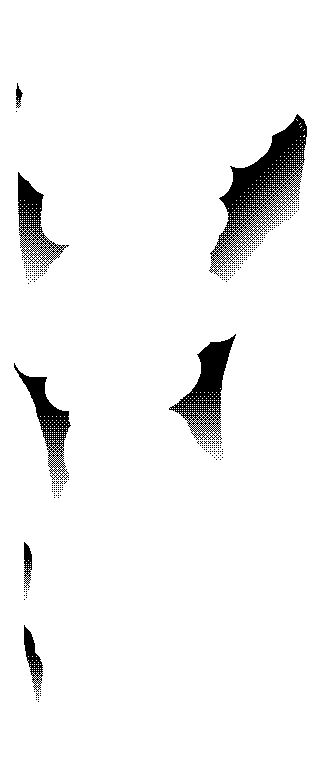
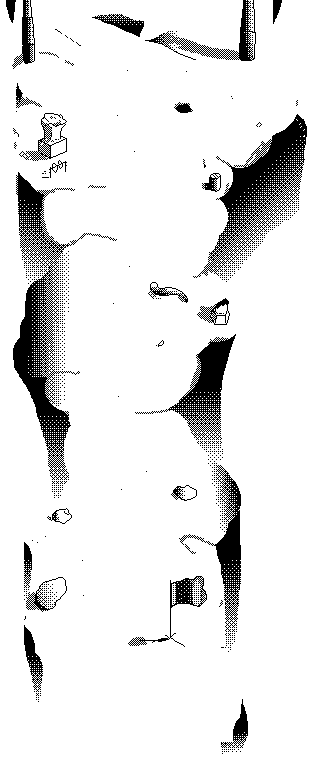
Depth effect for 3d

diff --git a/3d.c b/3d.c
@@ -589,7 +589,7 @@ Quaternion EulerToQuart(Point3 angle)
     return q;
 }
 
-Voxel VoxelCastRay(float startX, float startY, float startZ, Point3 dir)
+Voxel VoxelCastRay(float startX, float startY, float startZ, Point3 dir, int* endX, int* endY, int* endZ)
 {
     if (!RangeCheck(startX,startY,startZ))
 		return (Voxel){0};
@@ -608,8 +608,13 @@ Voxel VoxelCastRay(float startX, float startY, float startZ, Point3 dir)
         Voxel v = world[(int)(x)][(int)(y)][(int)(z)];
 
         if (!IsAir(v))
-            return v;
+        {
+            *endX = x;
+            *endY = y;
+            *endZ = z;
 
+            return v;
+        }
         float deltaX = dir.x * v.distFunc;
         float deltaY = dir.y * v.distFunc;
         float deltaZ = dir.z * v.distFunc;
@@ -646,6 +651,9 @@ Voxel VoxelCastRay(float startX, float startY, float startZ, Point3 dir)
                 x = clamp(x,0,VOXEL_WORLD_SIZE-1);
                 y = clamp(y,0,VOXEL_WORLD_SIZE-1);
                 z = clamp(z,0,VOXEL_WORLD_SIZE-1);
+                *endX = x;
+                *endY = y;
+                *endZ = z;
 
                 return world[(int)x][(int)y][(int)z];
         }
@@ -800,8 +808,6 @@ void Update3D(float dt, MouseState mouseStateLastFrame, MouseState mouseState, A
 
     UpdatePlayer3D(dt,keyState);
 }
-
-
 static void* VoxelRenderLines(ALLEGRO_THREAD *thr, void* v)
 {
     VOXEL_ARGS* va = (VOXEL_ARGS*)v;
@@ -829,12 +835,25 @@ static void* VoxelRenderLines(ALLEGRO_THREAD *thr, void* v)
 			Point3 angle = (Point3){1,pX,pY};
 			angle = MultMatrix(mat, angle);
 			NormalizeP3(angle);
-            Voxel v = VoxelCastRay(playerPosition.x,playerPosition.y,playerPosition.z, angle);
+            int endX; int endY; int endZ;
+            Voxel v = VoxelCastRay(playerPosition.x,playerPosition.y,playerPosition.z, angle,&endX,&endY,&endZ);
+            float dist = dist3(playerPosition.x-endX,playerPosition.y-endY,playerPosition.z-endZ);
             
+            dist /= VOXEL_WORLD_SIZE;
+
             ALLEGRO_COLOR c = GetColor(v.c,0);
+
+            int r; int g; int b;
+            r = clamp((c.r - dist)*255,0,255);
+            g = clamp((c.g - dist)*255,0,255);
+            b = clamp((c.b - dist)*255,0,255);
+
+            c = al_map_rgb(r,g,b);
+
             if (v.c == 0)   
-                c = BG;
-                
+                c = BG;    
+
+
             _T_PIXELS[x][y] = c;
             //al_draw_filled_rectangle(x,y,x+PIXEL_SIZE,y+PIXEL_SIZE,c);
 
